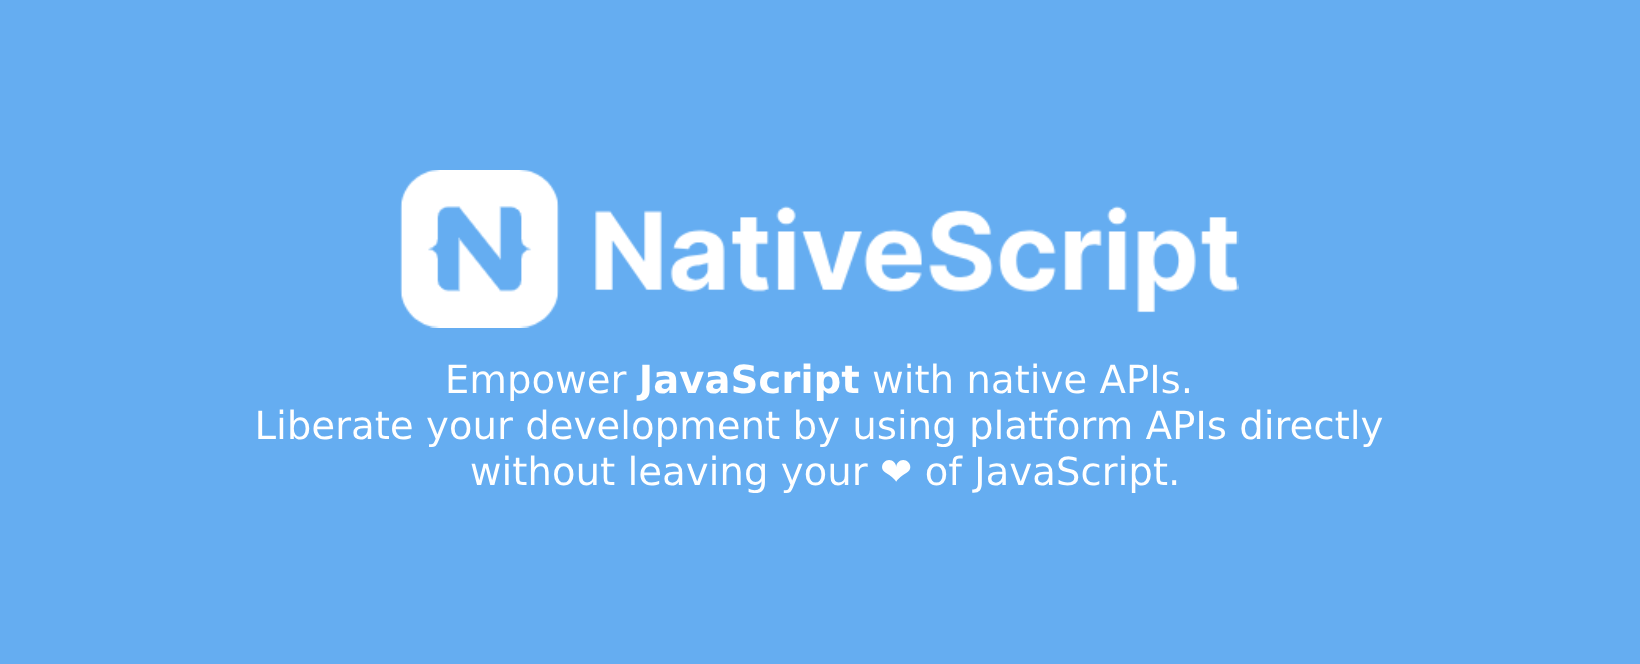
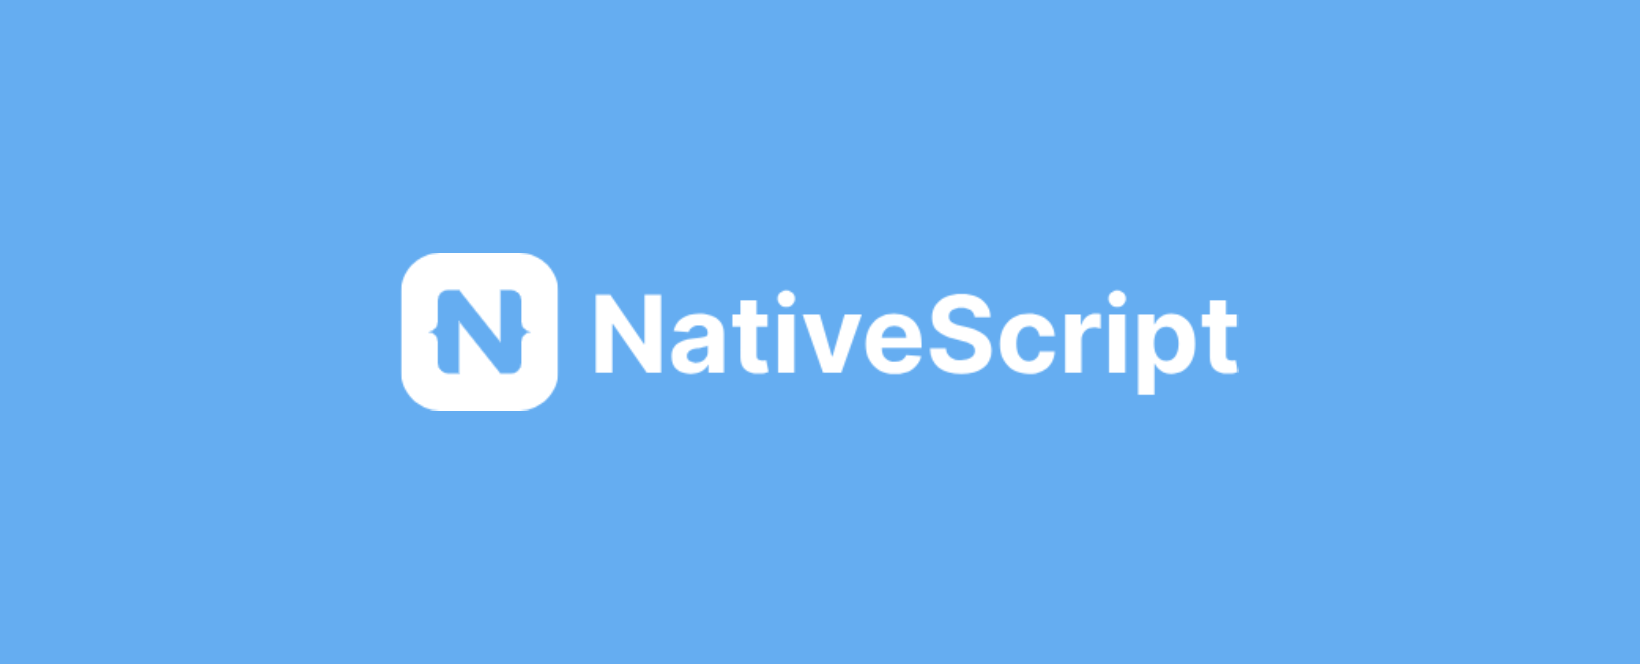
up

Changed region(s): [[0.1555, 0.241, 0.8396, 0.6627], [0.2799, 0.6928, 0.7152, 0.753]]

diff --git a/README.md b/README.md
@@ -1,6 +1,6 @@
 # Awesome Nativescript [![Awesome](https://awesome.re/badge-flat2.svg)](https://awesome.re)
 
-<img src="https://upload.wikimedia.org/wikipedia/commons/thumb/8/86/NativeScript_Logo.png/960px-NativeScript_Logo.png" width="128" />
+<img src="https://raw.githubusercontent.com/dyazincahya/awesome-nativescript/refs/heads/main/awesome-nativescript.png" />
 
 > Empower JavaScript with native APIs. Liberate your development by using platform APIs directly without leaving your ❤ of JavaScript.
 
